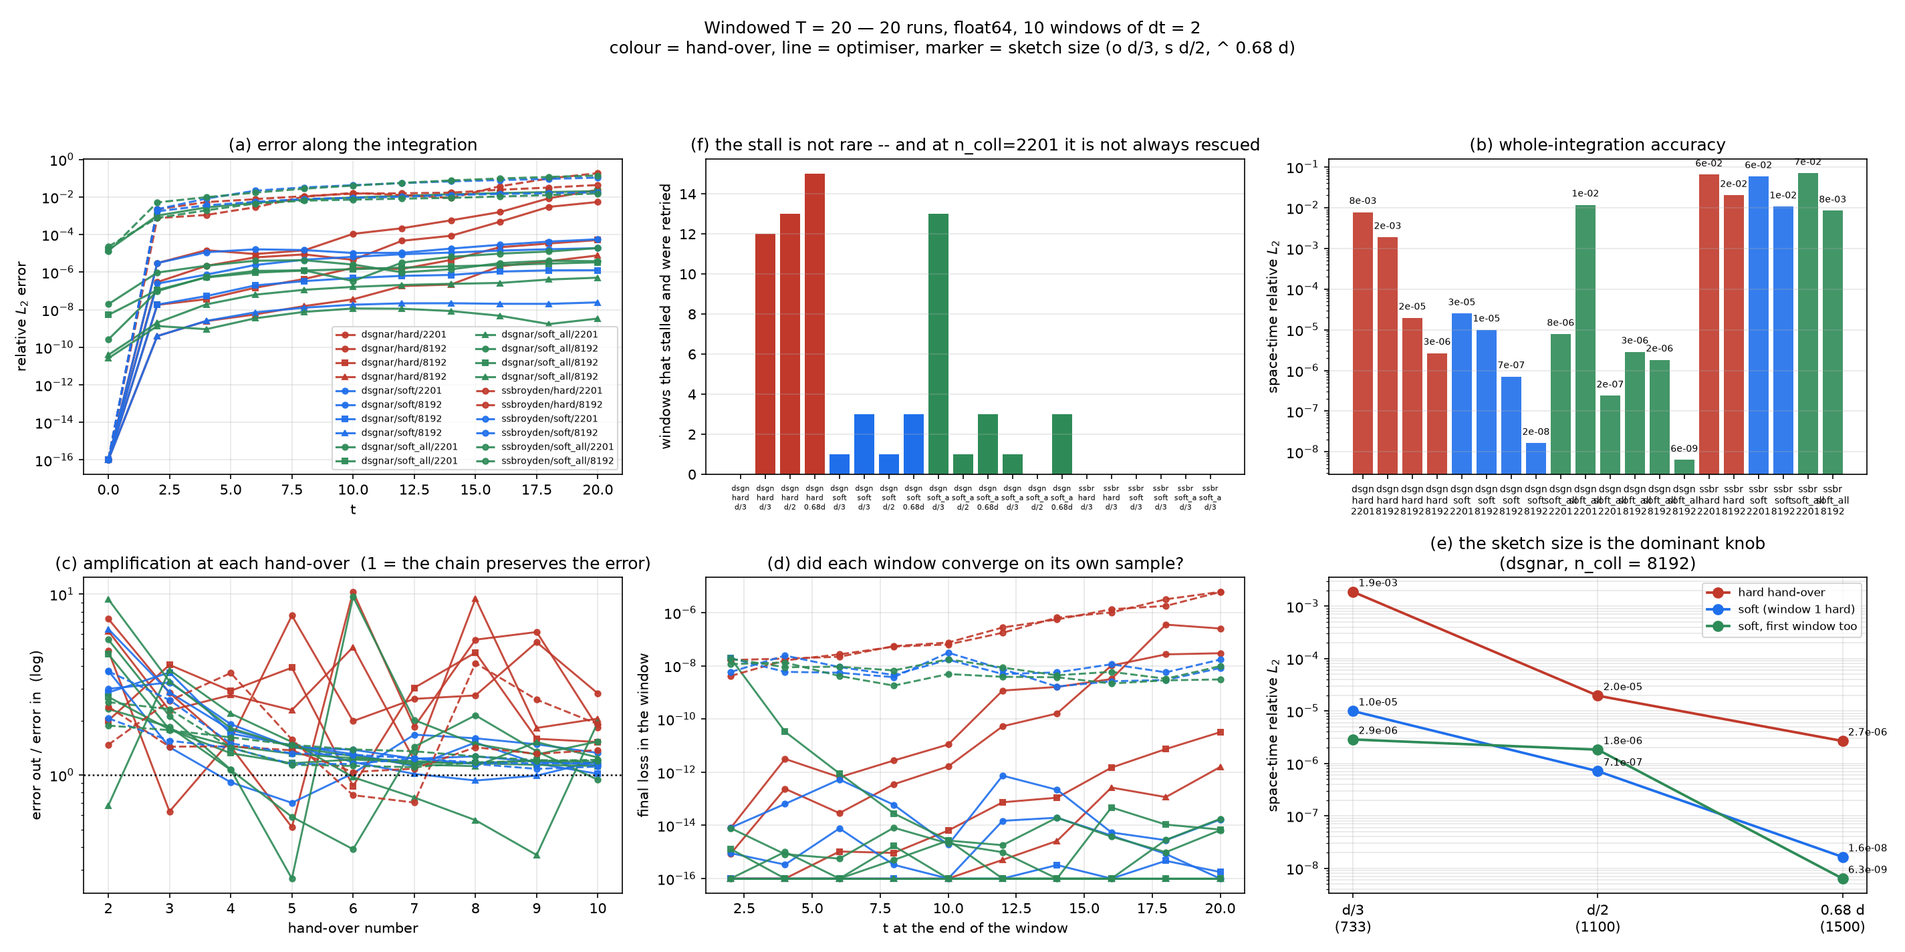
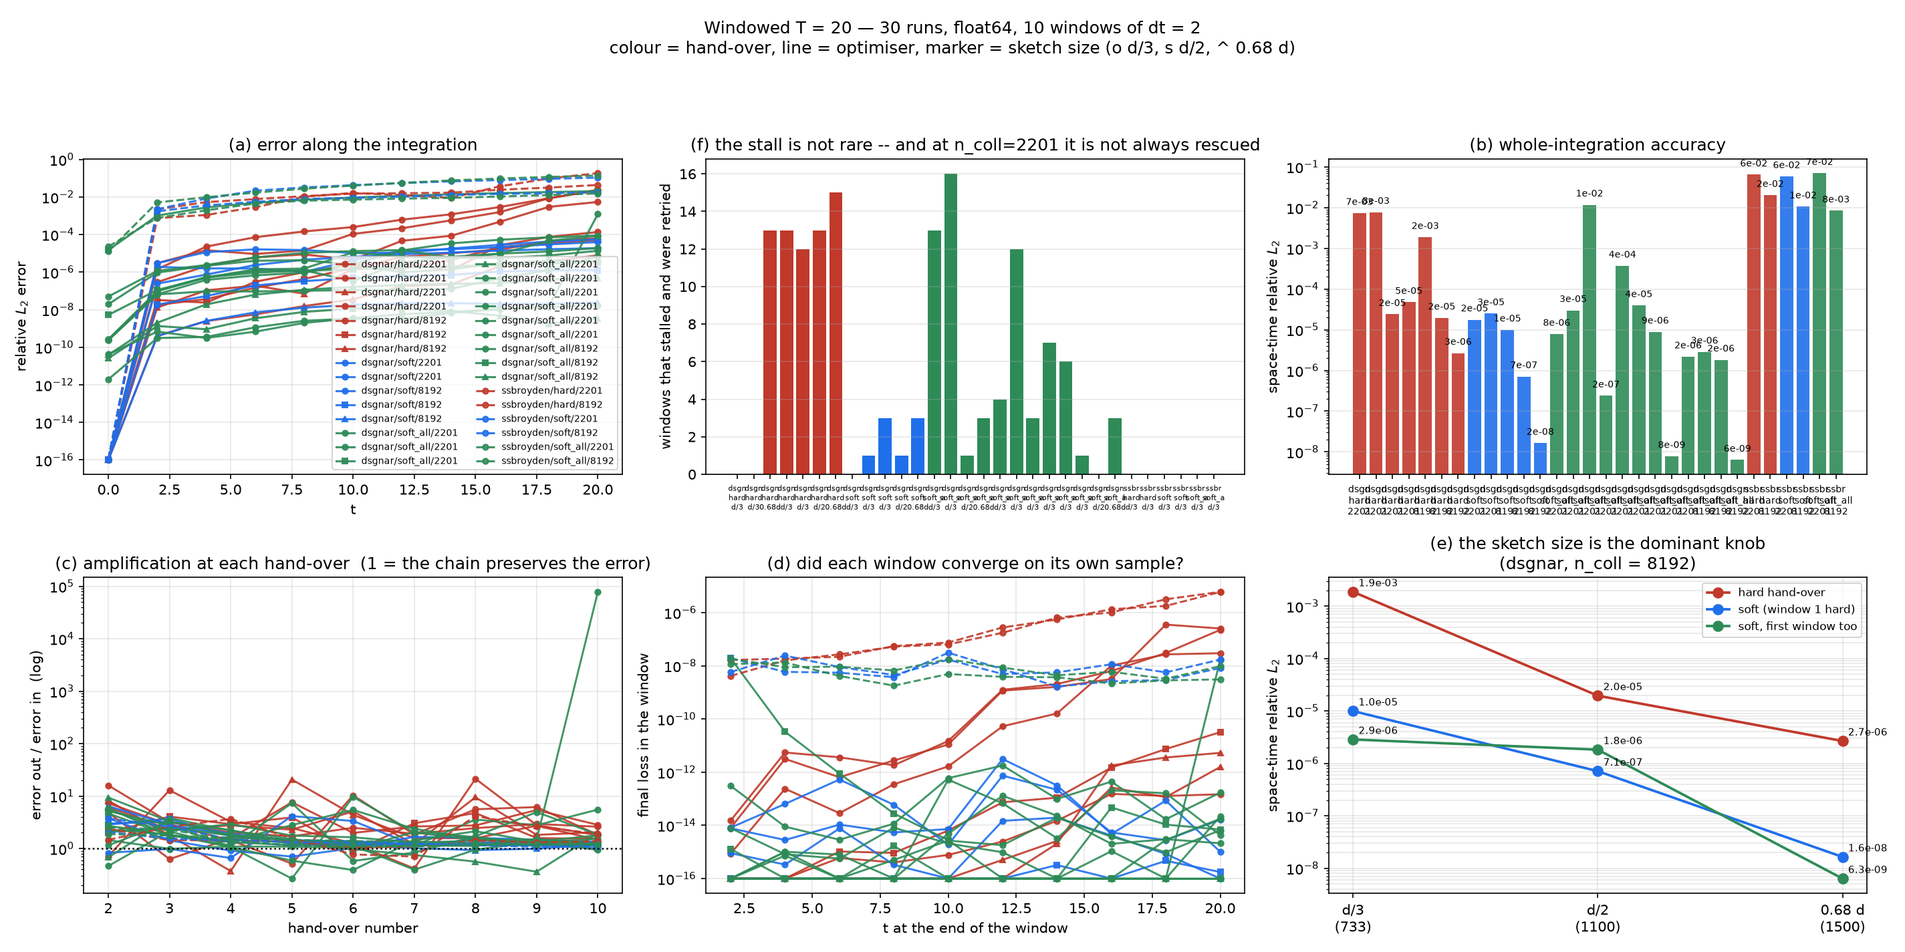
BATCH_REPORT.md: every windowed run in one table (30 runs, grouped by hand-over, best first), with the sketch, the README 6.13 switches each run changes, the worst window, the retries, and the x4 run-to-run variation stated up front; includes the 2026-10-15 Mendieta ablation and audits

diff --git a/Evolution_try/scripts/report_batch.py b/Evolution_try/scripts/report_batch.py
@@ -39,7 +39,7 @@ OPT_STYLE = {"dsgnar": "-", "ssbroyden": "--", "jaxopt_broyden": ":"}
 # distinguishable runs as a single line.
 def sketch_label(cfg):
     s = cfg.get("dsgnar_sketch") or 0
-    if s == 0:
+    if s in (0, 733):
         return "d/3"
     return "d/2" if s == 1100 else ("0.68d" if s == 1500 else f"s={s}")
 
@@ -49,6 +49,25 @@ SKETCH_MARK = {"d/3": "o", "d/2": "s", "0.68d": "^"}
 
 def mark(run):
     return SKETCH_MARK.get(run["sketch"], "D")
+
+
+def changes(cfg) -> str:
+    """What this run changes relative to the batch's DSGNAR defaults (README 6.13)."""
+    out = []
+    if cfg.get("optimizer") == "dsgnar":
+        if float(cfg.get("dsgnar_stage1_ratio", 0.15)) != 0.15:
+            out.append(f"target {cfg['dsgnar_stage1_ratio']:g}")
+        if float(cfg.get("dsgnar_delta_min", 1e-14)) != 1e-14:
+            out.append(f"Delta_min {cfg['dsgnar_delta_min']:g}")
+        if float(cfg.get("window_warm_start", 0.0) or 0.0) > 0:
+            out.append("warm start")
+        if cfg.get("dsgnar_reject_overshoot"):
+            out.append("overshoot rejection")
+        if float(cfg.get("dsgnar_reweight_alpha", 0.0) or 0.0) > 0:
+            out.append("reweighting")
+        if cfg.get("dsgnar_fixed_sketch"):
+            out.append("fixed sketch")
+    return ", ".join(out) if out else "--"
 
 
 def load_run(path: str) -> Optional[Dict]:
@@ -70,6 +89,7 @@ def load_run(path: str) -> Optional[Dict]:
         "rounds": cfg.get("resample_rounds"),
         "sketch": sketch_label(cfg),
         "retries": sum(x.get("attempts", 0) for x in win.get("windows", [])),
+        "changes": changes(cfg),
         "wall": win.get("wall"),
         "overall": win.get("metrics", {}).get("rel_l2_space_time"),
         "windows": win.get("windows", []),
@@ -209,18 +229,41 @@ def main(argv: List[str]) -> int:
     print(f"\nwrote {os.path.relpath(OUT_PNG, ROOT)}")
 
     # ---- markdown -----------------------------------------------------------
-    L = ["# Batch report: windowed T = 20", "",
-         f"{len(runs)} runs, all float64, 10 windows of dt = 2.  Generated by "
-         "`scripts/report_batch.py`.", "",
-         "| run | optimiser | hand-over | n_coll | space-time rel L2 | mean amplification | wall |",
-         "|---|---|---|---|---|---|---|"]
-    for r in runs:
-        amps = [w["amplification"] for w in r["windows"]
-                if w.get("amplification") and np.isfinite(w["amplification"])]
-        amp = f"{np.mean(amps):.2f}" if amps else "--"
-        L.append(f"| `{r['name']}` | {r['optimizer']} | {r['window_ic']} | {r['n_coll']} | "
-                 f"{r['overall']:.3e} | {amp} | {r['wall']:.0f} s |")
-    L += ["", "## Per window", "",
+    L = ["# Windowed T = 20: every run", "",
+         f"{len(runs)} runs, all float64, 10 windows of dt = 2, ansatz t2.  Generated by "
+         "`scripts/report_batch.py` from each `runs/<name>/windows.json`; rerun it after new runs.",
+         "",
+         "**How to read it.**  The error is the space-time relative L2 of the whole T = 20 chain "
+         "against the exact solution.  Run-to-run variation of one configuration is about **x4** "
+         "(`dsgnar_soft_all_nc2201` 7.8e-06 against its re-run `dsgnar_soft_all_nc2201_audit` "
+         "3.0e-05), so only larger differences mean anything.  `s` is the column sketch "
+         "(d = 2201 parameters; d/3 = 733).  *changes* are the switches of README 6.13 that differ "
+         "from the batch defaults (target 0.15, Delta_min 1e-14, fresh init per window, no "
+         "overshoot rejection, no reweighting).  *retries* counts windows redrawn after a stall; "
+         "*worst window* is the largest final window loss.  Within each hand-over, best first.",
+         ""]
+    order = {"soft_all": 0, "soft": 1, "hard": 2}
+    best = min(r["overall"] for r in runs if r["overall"] is not None)
+    for ic in sorted({r["window_ic"] for r in runs}, key=lambda k: order.get(k, 9)):
+        group = sorted((r for r in runs if r["window_ic"] == ic), key=lambda r: r["overall"])
+        L += [f"## Hand-over: {ic}", "",
+              "| run | optimiser | n_coll | s | changes | rel L2 (T = 20) | worst window | "
+              "retries | mean amplification | wall |",
+              "|---|---|---|---|---|---|---|---|---|---|"]
+        for r in group:
+            amps = [w["amplification"] for w in r["windows"]
+                    if w.get("amplification") and np.isfinite(w["amplification"])]
+            amp = f"{np.mean(amps):.2f}" if amps else "--"
+            worst = max(w["final_loss"] for w in r["windows"])
+            err = f"{r['overall']:.2e}"
+            if r["overall"] == best:
+                err = f"**{err}**"
+            s_lab = r["sketch"] if r["optimizer"] == "dsgnar" else "--"
+            L.append(f"| `{r['name']}` | {r['optimizer']} | {r['n_coll']} | {s_lab} | "
+                     f"{r['changes']} | {err} | {worst:.0e} | {r['retries']} | {amp} | "
+                     f"{r['wall'] / 60:.0f} min |")
+        L.append("")
+    L += ["## Per window", "",
           "| run | window | t | final loss | inherited rel L2 | window rel L2 | amplification | redraws |",
           "|---|---|---|---|---|---|---|---|"]
     for r in runs:

diff --git a/Evolution_try/BATCH_REPORT.md b/Evolution_try/BATCH_REPORT.md
@@ -1,34 +1,68 @@
-# Batch report: windowed T = 20
+# Windowed T = 20: every run
 
-20 runs, all float64, 10 windows of dt = 2.  Generated by `scripts/report_batch.py`.
+30 runs, all float64, 10 windows of dt = 2, ansatz t2.  Generated by `scripts/report_batch.py` from each `runs/<name>/windows.json`; rerun it after new runs.
 
-| run | optimiser | hand-over | n_coll | space-time rel L2 | mean amplification | wall |
-|---|---|---|---|---|---|---|
-| `dsgnar_hard_nc2201` | dsgnar | hard | 2201 | 7.746e-03 | 3.37 | 2011 s |
-| `dsgnar_hard_nc8192` | dsgnar | hard | 8192 | 1.877e-03 | 4.21 | 6145 s |
-| `dsgnar_hard_nc8192_s1100` | dsgnar | hard | 8192 | 1.958e-05 | 2.74 | 8263 s |
-| `dsgnar_hard_nc8192_s1500` | dsgnar | hard | 8192 | 2.674e-06 | 3.69 | 11891 s |
-| `dsgnar_soft_nc2201` | dsgnar | soft | 2201 | 2.505e-05 | 1.54 | 2307 s |
-| `dsgnar_soft_nc8192` | dsgnar | soft | 8192 | 9.980e-06 | 1.75 | 3948 s |
-| `dsgnar_soft_nc8192_s1100` | dsgnar | soft | 8192 | 7.110e-07 | 1.76 | 3856 s |
-| `dsgnar_soft_nc8192_s1500` | dsgnar | soft | 8192 | 1.642e-08 | 1.98 | 5802 s |
-| `dsgnar_soft_all_nc2201` | dsgnar | soft_all | 2201 | 7.834e-06 | 2.79 | 4556 s |
-| `dsgnar_soft_all_nc2201_s1100` | dsgnar | soft_all | 2201 | 1.174e-02 | 1.46 | 2363 s |
-| `dsgnar_soft_all_nc2201_s1500` | dsgnar | soft_all | 2201 | 2.399e-07 | 2.47 | 2751 s |
-| `dsgnar_soft_all_nc8192` | dsgnar | soft_all | 8192 | 2.861e-06 | 1.34 | 3487 s |
-| `dsgnar_soft_all_nc8192_s1100` | dsgnar | soft_all | 8192 | 1.829e-06 | 1.65 | 3153 s |
-| `dsgnar_soft_all_nc8192_s1500` | dsgnar | soft_all | 8192 | 6.344e-09 | 1.42 | 5765 s |
-| `ssbroyden_hard_nc2201` | ssbroyden | hard | 2201 | 6.449e-02 | 2.16 | 339 s |
-| `ssbroyden_hard_nc8192` | ssbroyden | hard | 8192 | 2.020e-02 | 1.43 | 377 s |
-| `ssbroyden_soft_nc2201` | ssbroyden | soft | 2201 | 5.851e-02 | 1.69 | 348 s |
-| `ssbroyden_soft_nc8192` | ssbroyden | soft | 8192 | 1.061e-02 | 1.32 | 356 s |
-| `ssbroyden_soft_all_nc2201` | ssbroyden | soft_all | 2201 | 7.022e-02 | 1.46 | 326 s |
-| `ssbroyden_soft_all_nc8192` | ssbroyden | soft_all | 8192 | 8.410e-03 | 1.47 | 355 s |
+**How to read it.**  The error is the space-time relative L2 of the whole T = 20 chain against the exact solution.  Run-to-run variation of one configuration is about **x4** (`dsgnar_soft_all_nc2201` 7.8e-06 against its re-run `dsgnar_soft_all_nc2201_audit` 3.0e-05), so only larger differences mean anything.  `s` is the column sketch (d = 2201 parameters; d/3 = 733).  *changes* are the switches of README 6.13 that differ from the batch defaults (target 0.15, Delta_min 1e-14, fresh init per window, no overshoot rejection, no reweighting).  *retries* counts windows redrawn after a stall; *worst window* is the largest final window loss.  Within each hand-over, best first.
+
+## Hand-over: soft_all
+
+| run | optimiser | n_coll | s | changes | rel L2 (T = 20) | worst window | retries | mean amplification | wall |
+|---|---|---|---|---|---|---|---|---|---|
+| `dsgnar_soft_all_nc8192_s1500` | dsgnar | 8192 | 0.68d | -- | **6.34e-09** | 1e-19 | 3 | 1.42 | 96 min |
+| `pp_soft_all_targets` | dsgnar | 2201 | d/3 | target 0.075, Delta_min 1e-08 | 7.82e-09 | 1e-19 | 7 | 1.68 | 98 min |
+| `dsgnar_soft_all_nc2201_s1500` | dsgnar | 2201 | 0.68d | -- | 2.40e-07 | 6e-19 | 3 | 2.47 | 46 min |
+| `dsgnar_soft_all_nc8192_s1100` | dsgnar | 8192 | d/2 | -- | 1.83e-06 | 2e-15 | 0 | 1.65 | 53 min |
+| `pp_soft_all_warm` | dsgnar | 2201 | d/3 | warm start | 2.18e-06 | 2e-14 | 6 | 2.07 | 64 min |
+| `dsgnar_soft_all_nc8192` | dsgnar | 8192 | d/3 | -- | 2.86e-06 | 2e-14 | 1 | 1.34 | 58 min |
+| `dsgnar_soft_all_nc2201` | dsgnar | 2201 | d/3 | -- | 7.83e-06 | 2e-14 | 13 | 2.79 | 76 min |
+| `pp_soft_all_reweight` | dsgnar | 2201 | d/3 | reweighting | 8.89e-06 | 2e-12 | 3 | 1.47 | 61 min |
+| `dsgnar_soft_all_nc2201_audit` | dsgnar | 2201 | d/3 | -- | 3.00e-05 | 5e-13 | 16 | 2.92 | 116 min |
+| `pp_soft_all_overshoot` | dsgnar | 2201 | d/3 | overshoot rejection | 3.95e-05 | 1e-13 | 12 | 2.64 | 101 min |
+| `pp_soft_all_all` | dsgnar | 2201 | d/3 | target 0.075, Delta_min 1e-08, warm start, overshoot rejection, reweighting | 3.71e-04 | 2e-08 | 4 | 8721.79 | 87 min |
+| `ssbroyden_soft_all_nc8192` | ssbroyden | 8192 | -- | -- | 8.41e-03 | 1e-08 | 0 | 1.47 | 6 min |
+| `dsgnar_soft_all_nc2201_s1100` | dsgnar | 2201 | d/2 | -- | 1.17e-02 | 2e-08 | 1 | 1.46 | 39 min |
+| `ssbroyden_soft_all_nc2201` | ssbroyden | 2201 | -- | -- | 7.02e-02 | 2e-08 | 0 | 1.46 | 5 min |
+
+## Hand-over: soft
+
+| run | optimiser | n_coll | s | changes | rel L2 (T = 20) | worst window | retries | mean amplification | wall |
+|---|---|---|---|---|---|---|---|---|---|
+| `dsgnar_soft_nc8192_s1500` | dsgnar | 8192 | 0.68d | -- | 1.64e-08 | 8e-20 | 3 | 1.98 | 97 min |
+| `dsgnar_soft_nc8192_s1100` | dsgnar | 8192 | d/2 | -- | 7.11e-07 | 5e-16 | 1 | 1.76 | 64 min |
+| `dsgnar_soft_nc8192` | dsgnar | 8192 | d/3 | -- | 9.98e-06 | 2e-14 | 3 | 1.75 | 66 min |
+| `T20win_soft` | dsgnar | 2201 | d/3 | -- | 1.77e-05 | 3e-12 | 0 | 1.68 | 23 min |
+| `dsgnar_soft_nc2201` | dsgnar | 2201 | d/3 | -- | 2.50e-05 | 7e-13 | 1 | 1.54 | 38 min |
+| `ssbroyden_soft_nc8192` | ssbroyden | 8192 | -- | -- | 1.06e-02 | 3e-08 | 0 | 1.32 | 6 min |
+| `ssbroyden_soft_nc2201` | ssbroyden | 2201 | -- | -- | 5.85e-02 | 2e-08 | 0 | 1.69 | 6 min |
+
+## Hand-over: hard
+
+| run | optimiser | n_coll | s | changes | rel L2 (T = 20) | worst window | retries | mean amplification | wall |
+|---|---|---|---|---|---|---|---|---|---|
+| `dsgnar_hard_nc8192_s1500` | dsgnar | 8192 | 0.68d | -- | 2.67e-06 | 2e-12 | 15 | 3.69 | 198 min |
+| `dsgnar_hard_nc8192_s1100` | dsgnar | 8192 | d/2 | -- | 1.96e-05 | 3e-11 | 13 | 2.74 | 138 min |
+| `dsgnar_hard_nc2201_s1500_audit` | dsgnar | 2201 | 0.68d | -- | 2.40e-05 | 5e-12 | 13 | 4.75 | 113 min |
+| `pp_hard_all` | dsgnar | 2201 | d/3 | target 0.075, Delta_min 1e-08, warm start, overshoot rejection, reweighting | 4.75e-05 | 2e-13 | 13 | 5.22 | 129 min |
+| `dsgnar_hard_nc8192` | dsgnar | 8192 | d/3 | -- | 1.88e-03 | 3e-08 | 12 | 4.21 | 102 min |
+| `T20win_hard` | dsgnar | 2201 | d/3 | -- | 7.30e-03 | 2e-07 | 0 | 3.92 | 17 min |
+| `dsgnar_hard_nc2201` | dsgnar | 2201 | d/3 | -- | 7.75e-03 | 4e-07 | 0 | 3.37 | 34 min |
+| `ssbroyden_hard_nc8192` | ssbroyden | 8192 | -- | -- | 2.02e-02 | 6e-06 | 0 | 1.43 | 6 min |
+| `ssbroyden_hard_nc2201` | ssbroyden | 2201 | -- | -- | 6.45e-02 | 6e-06 | 0 | 2.16 | 6 min |
 
 ## Per window
 
 | run | window | t | final loss | inherited rel L2 | window rel L2 | amplification | redraws |
 |---|---|---|---|---|---|---|---|
+| `T20win_hard` | 1 | [0, 2] | 1.51e-14 | 0.00e+00 | 9.85e-07 | xnan | 0 |
+| `T20win_hard` | 2 | [2, 4] | 5.49e-12 | 1.43e-06 | 1.33e-05 | x15.99 | 0 |
+| `T20win_hard` | 3 | [4, 6] | 3.63e-12 | 2.29e-05 | 4.91e-05 | x3.16 | 0 |
+| `T20win_hard` | 4 | [6, 8] | 1.82e-12 | 7.23e-05 | 1.14e-04 | x2.02 | 0 |
+| `T20win_hard` | 5 | [8, 10] | 1.49e-11 | 1.46e-04 | 1.98e-04 | x1.71 | 0 |
+| `T20win_hard` | 6 | [10, 12] | 1.25e-09 | 2.51e-04 | 3.18e-04 | x2.49 | 0 |
+| `T20win_hard` | 7 | [12, 14] | 2.06e-09 | 6.23e-04 | 9.06e-04 | x1.92 | 0 |
+| `T20win_hard` | 8 | [14, 16] | 6.34e-09 | 1.19e-03 | 2.04e-03 | x2.45 | 0 |
+| `T20win_hard` | 9 | [16, 18] | 3.03e-08 | 2.93e-03 | 5.77e-03 | x2.94 | 0 |
+| `T20win_hard` | 10 | [18, 20] | 2.23e-07 | 8.59e-03 | 1.64e-02 | x2.61 | 0 |
 | `dsgnar_hard_nc2201` | 1 | [0, 2] | 7.96e-15 | 0.00e+00 | 2.02e-06 | xnan | 4 |
 | `dsgnar_hard_nc2201` | 2 | [2, 4] | 3.16e-12 | 3.02e-06 | 8.68e-06 | x4.86 | 4 |
 | `dsgnar_hard_nc2201` | 3 | [4, 6] | 6.48e-13 | 1.47e-05 | 1.01e-05 | x0.63 | 4 |
@@ -39,6 +73,26 @@
 | `dsgnar_hard_nc2201` | 8 | [14, 16] | 3.17e-09 | 5.72e-04 | 1.17e-03 | x2.76 | 4 |
 | `dsgnar_hard_nc2201` | 9 | [16, 18] | 3.54e-07 | 1.58e-03 | 6.00e-03 | x5.42 | 4 |
 | `dsgnar_hard_nc2201` | 10 | [18, 20] | 2.52e-07 | 8.55e-03 | 1.75e-02 | x2.83 | 4 |
+| `dsgnar_hard_nc2201_s1500_audit` | 1 | [0, 2] | 1.14e-20 | 0.00e+00 | 7.75e-09 | xnan | 4 |
+| `dsgnar_hard_nc2201_s1500_audit` | 2 | [2, 4] | 2.49e-19 | 1.31e-08 | 6.75e-08 | x8.19 | 4 |
+| `dsgnar_hard_nc2201_s1500_audit` | 3 | [4, 6] | 1.08e-19 | 1.07e-07 | 1.58e-07 | x1.79 | 4 |
+| `dsgnar_hard_nc2201_s1500_audit` | 4 | [6, 8] | 6.61e-18 | 1.91e-07 | 1.25e-07 | x0.37 | 4 |
+| `dsgnar_hard_nc2201_s1500_audit` | 5 | [8, 10] | 5.97e-17 | 7.10e-08 | 9.51e-07 | x20.70 | 4 |
+| `dsgnar_hard_nc2201_s1500_audit` | 6 | [10, 12] | 4.21e-17 | 1.47e-06 | 4.44e-06 | x4.39 | 4 |
+| `dsgnar_hard_nc2201_s1500_audit` | 7 | [12, 14] | 2.06e-15 | 6.46e-06 | 8.66e-06 | x1.58 | 4 |
+| `dsgnar_hard_nc2201_s1500_audit` | 8 | [14, 16] | 1.79e-12 | 1.02e-05 | 1.18e-05 | x1.57 | 4 |
+| `dsgnar_hard_nc2201_s1500_audit` | 9 | [16, 18] | 3.56e-12 | 1.60e-05 | 2.82e-05 | x2.73 | 4 |
+| `dsgnar_hard_nc2201_s1500_audit` | 10 | [18, 20] | 5.32e-12 | 4.36e-05 | 5.76e-05 | x1.46 | 4 |
+| `pp_hard_all` | 1 | [0, 2] | 7.03e-19 | 0.00e+00 | 2.45e-08 | xnan | 4 |
+| `pp_hard_all` | 2 | [2, 4] | 3.11e-18 | 3.31e-08 | 3.43e-08 | x0.72 | 4 |
+| `pp_hard_all` | 3 | [4, 6] | 5.92e-16 | 2.37e-08 | 2.24e-07 | x12.95 | 4 |
+| `pp_hard_all` | 4 | [6, 8] | 4.06e-16 | 3.06e-07 | 5.54e-07 | x3.23 | 4 |
+| `pp_hard_all` | 5 | [8, 10] | 7.78e-16 | 9.90e-07 | 1.86e-06 | x2.46 | 4 |
+| `pp_hard_all` | 6 | [10, 12] | 2.48e-15 | 2.43e-06 | 2.79e-06 | x1.25 | 4 |
+| `pp_hard_all` | 7 | [12, 14] | 1.50e-14 | 3.04e-06 | 2.44e-06 | x0.42 | 4 |
+| `pp_hard_all` | 8 | [14, 16] | 1.53e-13 | 1.27e-06 | 1.56e-05 | x21.40 | 4 |
+| `pp_hard_all` | 9 | [16, 18] | 1.28e-13 | 2.71e-05 | 5.46e-05 | x2.79 | 4 |
+| `pp_hard_all` | 10 | [18, 20] | 1.48e-13 | 7.54e-05 | 1.10e-04 | x1.80 | 4 |
 | `dsgnar_hard_nc8192` | 1 | [0, 2] | 8.63e-16 | 0.00e+00 | 1.90e-07 | xnan | 4 |
 | `dsgnar_hard_nc8192` | 2 | [2, 4] | 2.38e-13 | 2.93e-07 | 1.66e-06 | x7.31 | 4 |
 | `dsgnar_hard_nc8192` | 3 | [4, 6] | 2.89e-14 | 2.14e-06 | 4.42e-06 | x2.85 | 4 |
@@ -69,6 +123,16 @@
 | `dsgnar_hard_nc8192_s1500` | 8 | [14, 16] | 2.64e-13 | 2.19e-07 | 1.21e-06 | x9.47 | 4 |
 | `dsgnar_hard_nc8192_s1500` | 9 | [16, 18] | 1.16e-13 | 2.08e-06 | 2.91e-06 | x1.82 | 4 |
 | `dsgnar_hard_nc8192_s1500` | 10 | [18, 20] | 1.57e-12 | 3.78e-06 | 5.23e-06 | x2.05 | 4 |
+| `T20win_soft` | 1 | [0, 2] | 7.78e-15 | 0.00e+00 | 1.13e-06 | xnan | 0 |
+| `T20win_soft` | 2 | [2, 4] | 2.82e-15 | 1.91e-06 | 1.77e-06 | x0.83 | 0 |
+| `T20win_soft` | 3 | [4, 6] | 1.07e-14 | 1.58e-06 | 1.12e-06 | x0.99 | 0 |
+| `T20win_soft` | 4 | [6, 8] | 5.46e-15 | 1.56e-06 | 1.38e-06 | x0.66 | 0 |
+| `T20win_soft` | 5 | [8, 10] | 7.24e-15 | 1.03e-06 | 2.85e-06 | x4.16 | 0 |
+| `T20win_soft` | 6 | [10, 12] | 3.12e-12 | 4.27e-06 | 1.23e-05 | x3.35 | 0 |
+| `T20win_soft` | 7 | [12, 14] | 3.16e-13 | 1.43e-05 | 1.48e-05 | x1.17 | 0 |
+| `T20win_soft` | 8 | [14, 16] | 4.74e-15 | 1.66e-05 | 1.85e-05 | x1.27 | 0 |
+| `T20win_soft` | 9 | [16, 18] | 8.52e-14 | 2.12e-05 | 2.52e-05 | x1.41 | 0 |
+| `T20win_soft` | 10 | [18, 20] | 1.02e-15 | 2.99e-05 | 3.51e-05 | x1.34 | 0 |
 | `dsgnar_soft_nc2201` | 1 | [0, 2] | 8.21e-15 | 0.00e+00 | 2.04e-06 | xnan | 4 |
 | `dsgnar_soft_nc2201` | 2 | [2, 4] | 6.39e-14 | 3.05e-06 | 8.28e-06 | x3.77 | 4 |
 | `dsgnar_soft_nc2201` | 3 | [4, 6] | 5.30e-13 | 1.15e-05 | 1.46e-05 | x1.43 | 4 |
@@ -119,6 +183,16 @@
 | `dsgnar_soft_all_nc2201` | 8 | [14, 16] | 3.76e-15 | 6.50e-06 | 8.37e-06 | x1.48 | 4 |
 | `dsgnar_soft_all_nc2201` | 9 | [16, 18] | 9.80e-16 | 9.65e-06 | 1.12e-05 | x1.30 | 4 |
 | `dsgnar_soft_all_nc2201` | 10 | [18, 20] | 6.60e-15 | 1.25e-05 | 1.62e-05 | x1.53 | 4 |
+| `dsgnar_soft_all_nc2201_audit` | 1 | [0, 2] | 2.37e-18 | 0.00e+00 | 5.62e-08 | xnan | 4 |
+| `dsgnar_soft_all_nc2201_audit` | 2 | [2, 4] | 1.02e-15 | 9.78e-08 | 3.27e-07 | x5.18 | 4 |
+| `dsgnar_soft_all_nc2201_audit` | 3 | [4, 6] | 8.00e-16 | 5.07e-07 | 1.03e-06 | x2.76 | 4 |
+| `dsgnar_soft_all_nc2201_audit` | 4 | [6, 8] | 3.23e-17 | 1.40e-06 | 1.49e-06 | x1.10 | 4 |
+| `dsgnar_soft_all_nc2201_audit` | 5 | [8, 10] | 5.24e-13 | 1.54e-06 | 7.67e-06 | x7.34 | 4 |
+| `dsgnar_soft_all_nc2201_audit` | 6 | [10, 12] | 6.74e-14 | 1.13e-05 | 8.94e-06 | x0.58 | 4 |
+| `dsgnar_soft_all_nc2201_audit` | 7 | [12, 14] | 3.29e-15 | 6.55e-06 | 6.13e-06 | x0.84 | 4 |
+| `dsgnar_soft_all_nc2201_audit` | 8 | [14, 16] | 2.08e-13 | 5.50e-06 | 5.73e-06 | x1.71 | 4 |
+| `dsgnar_soft_all_nc2201_audit` | 9 | [16, 18] | 1.61e-13 | 9.43e-06 | 3.09e-05 | x4.95 | 4 |
+| `dsgnar_soft_all_nc2201_audit` | 10 | [18, 20] | 4.30e-15 | 4.66e-05 | 6.96e-05 | x1.85 | 4 |
 | `dsgnar_soft_all_nc2201_s1100` | 1 | [0, 2] | 1.93e-08 | 0.00e+00 | 1.08e-03 | xnan | 4 |
 | `dsgnar_soft_all_nc2201_s1100` | 2 | [2, 4] | 3.32e-11 | 1.02e-03 | 2.26e-03 | x2.71 | 4 |
 | `dsgnar_soft_all_nc2201_s1100` | 3 | [4, 6] | 8.96e-13 | 2.77e-03 | 4.17e-03 | x1.78 | 4 |
@@ -139,6 +213,56 @@
 | `dsgnar_soft_all_nc2201_s1500` | 8 | [14, 16] | 1.76e-20 | 2.38e-07 | 2.53e-07 | x1.12 | 4 |
 | `dsgnar_soft_all_nc2201_s1500` | 9 | [16, 18] | 5.98e-19 | 2.66e-07 | 3.43e-07 | x1.52 | 4 |
 | `dsgnar_soft_all_nc2201_s1500` | 10 | [18, 20] | 3.70e-20 | 4.04e-07 | 4.60e-07 | x1.25 | 4 |
+| `pp_soft_all_all` | 1 | [0, 2] | 1.34e-19 | 0.00e+00 | 5.90e-10 | xnan | 4 |
+| `pp_soft_all_all` | 2 | [2, 4] | 1.43e-19 | 6.75e-10 | 5.88e-10 | x0.46 | 4 |
+| `pp_soft_all_all` | 3 | [4, 6] | 3.93e-20 | 3.13e-10 | 4.62e-10 | x2.15 | 4 |
+| `pp_soft_all_all` | 4 | [6, 8] | 1.88e-19 | 6.74e-10 | 1.41e-09 | x2.94 | 4 |
+| `pp_soft_all_all` | 5 | [8, 10] | 1.93e-17 | 1.98e-09 | 2.94e-09 | x1.76 | 4 |
+| `pp_soft_all_all` | 6 | [10, 12] | 2.91e-20 | 3.50e-09 | 4.83e-09 | x1.64 | 4 |
+| `pp_soft_all_all` | 7 | [12, 14] | 2.15e-19 | 5.73e-09 | 6.72e-09 | x1.31 | 4 |
+| `pp_soft_all_all` | 8 | [14, 16] | 5.21e-18 | 7.48e-09 | 8.69e-09 | x1.40 | 4 |
+| `pp_soft_all_all` | 9 | [16, 18] | 1.54e-18 | 1.05e-08 | 1.33e-08 | x1.50 | 4 |
+| `pp_soft_all_all` | 10 | [18, 20] | 1.65e-08 | 1.57e-08 | 8.56e-04 | x78482.94 | 4 |
+| `pp_soft_all_overshoot` | 1 | [0, 2] | 2.13e-18 | 0.00e+00 | 3.91e-08 | xnan | 4 |
+| `pp_soft_all_overshoot` | 2 | [2, 4] | 7.33e-16 | 6.55e-08 | 3.67e-07 | x5.90 | 4 |
+| `pp_soft_all_overshoot` | 3 | [4, 6] | 9.42e-17 | 3.86e-07 | 5.56e-07 | x1.74 | 4 |
+| `pp_soft_all_overshoot` | 4 | [6, 8] | 6.77e-17 | 6.72e-07 | 8.31e-07 | x1.40 | 4 |
+| `pp_soft_all_overshoot` | 5 | [8, 10] | 4.88e-15 | 9.40e-07 | 1.51e-06 | x2.79 | 4 |
+| `pp_soft_all_overshoot` | 6 | [10, 12] | 1.30e-13 | 2.63e-06 | 9.21e-06 | x5.43 | 4 |
+| `pp_soft_all_overshoot` | 7 | [12, 14] | 2.31e-14 | 1.43e-05 | 2.54e-05 | x2.38 | 4 |
+| `pp_soft_all_overshoot` | 8 | [14, 16] | 2.03e-15 | 3.39e-05 | 4.46e-05 | x1.56 | 4 |
+| `pp_soft_all_overshoot` | 9 | [16, 18] | 3.02e-15 | 5.29e-05 | 6.32e-05 | x1.35 | 4 |
+| `pp_soft_all_overshoot` | 10 | [18, 20] | 2.13e-15 | 7.13e-05 | 8.14e-05 | x1.25 | 4 |
+| `pp_soft_all_reweight` | 1 | [0, 2] | 3.05e-13 | 0.00e+00 | 9.91e-07 | xnan | 4 |
+| `pp_soft_all_reweight` | 2 | [2, 4] | 8.95e-15 | 1.17e-06 | 1.98e-06 | x2.05 | 4 |
+| `pp_soft_all_reweight` | 3 | [4, 6] | 2.90e-15 | 2.39e-06 | 4.50e-06 | x2.52 | 4 |
+| `pp_soft_all_reweight` | 4 | [6, 8] | 1.16e-14 | 6.01e-06 | 8.78e-06 | x1.77 | 4 |
+| `pp_soft_all_reweight` | 5 | [8, 10] | 5.97e-13 | 1.06e-05 | 1.16e-05 | x1.24 | 4 |
+| `pp_soft_all_reweight` | 6 | [10, 12] | 1.78e-12 | 1.32e-05 | 1.73e-05 | x1.14 | 4 |
+| `pp_soft_all_reweight` | 7 | [12, 14] | 9.86e-14 | 1.50e-05 | 8.73e-06 | x0.39 | 4 |
+| `pp_soft_all_reweight` | 8 | [14, 16] | 4.44e-13 | 5.93e-06 | 6.31e-06 | x0.95 | 4 |
+| `pp_soft_all_reweight` | 9 | [16, 18] | 1.70e-14 | 5.62e-06 | 7.76e-06 | x1.36 | 4 |
+| `pp_soft_all_reweight` | 10 | [18, 20] | 1.70e-13 | 7.66e-06 | 1.16e-05 | x1.79 | 4 |
+| `pp_soft_all_targets` | 1 | [0, 2] | 1.35e-22 | 0.00e+00 | 1.73e-10 | xnan | 4 |
+| `pp_soft_all_targets` | 2 | [2, 4] | 8.41e-21 | 3.09e-10 | 3.06e-10 | x1.15 | 4 |
+| `pp_soft_all_targets` | 3 | [4, 6] | 6.70e-21 | 3.54e-10 | 7.37e-10 | x3.24 | 4 |
+| `pp_soft_all_targets` | 4 | [6, 8] | 3.03e-20 | 1.15e-09 | 1.96e-09 | x2.24 | 4 |
+| `pp_soft_all_targets` | 5 | [8, 10] | 2.70e-20 | 2.57e-09 | 3.17e-09 | x1.30 | 4 |
+| `pp_soft_all_targets` | 6 | [10, 12] | 1.06e-19 | 3.34e-09 | 2.36e-09 | x0.97 | 4 |
+| `pp_soft_all_targets` | 7 | [12, 14] | 1.38e-20 | 3.23e-09 | 4.99e-09 | x2.07 | 4 |
+| `pp_soft_all_targets` | 8 | [14, 16] | 1.17e-21 | 6.67e-09 | 9.20e-09 | x1.65 | 4 |
+| `pp_soft_all_targets` | 9 | [16, 18] | 3.58e-20 | 1.10e-08 | 1.29e-08 | x1.26 | 4 |
+| `pp_soft_all_targets` | 10 | [18, 20] | 6.98e-20 | 1.38e-08 | 1.52e-08 | x1.22 | 4 |
+| `pp_soft_all_warm` | 1 | [0, 2] | 2.13e-18 | 0.00e+00 | 3.91e-08 | xnan | 4 |
+| `pp_soft_all_warm` | 2 | [2, 4] | 8.71e-19 | 6.55e-08 | 8.76e-08 | x1.45 | 4 |
+| `pp_soft_all_warm` | 3 | [4, 6] | 6.52e-20 | 9.47e-08 | 9.72e-08 | x0.99 | 4 |
+| `pp_soft_all_warm` | 4 | [6, 8] | 1.22e-20 | 9.36e-08 | 1.02e-07 | x1.09 | 4 |
+| `pp_soft_all_warm` | 5 | [8, 10] | 7.26e-22 | 1.02e-07 | 1.10e-07 | x1.09 | 4 |
+| `pp_soft_all_warm` | 6 | [10, 12] | 1.70e-19 | 1.11e-07 | 1.15e-07 | x1.04 | 4 |
+| `pp_soft_all_warm` | 7 | [12, 14] | 3.02e-20 | 1.15e-07 | 1.25e-07 | x1.12 | 4 |
+| `pp_soft_all_warm` | 8 | [14, 16] | 1.07e-15 | 1.29e-07 | 3.07e-07 | x3.58 | 4 |
+| `pp_soft_all_warm` | 9 | [16, 18] | 7.80e-17 | 4.63e-07 | 9.30e-07 | x2.78 | 4 |
+| `pp_soft_all_warm` | 10 | [18, 20] | 2.17e-14 | 1.29e-06 | 4.49e-06 | x5.53 | 4 |
 | `dsgnar_soft_all_nc8192` | 1 | [0, 2] | 7.87e-15 | 0.00e+00 | 6.90e-07 | xnan | 4 |
 | `dsgnar_soft_all_nc8192` | 2 | [2, 4] | 8.26e-16 | 9.45e-07 | 1.59e-06 | x2.32 | 4 |
 | `dsgnar_soft_all_nc8192` | 3 | [4, 6] | 5.63e-16 | 2.19e-06 | 3.21e-06 | x1.85 | 4 |
